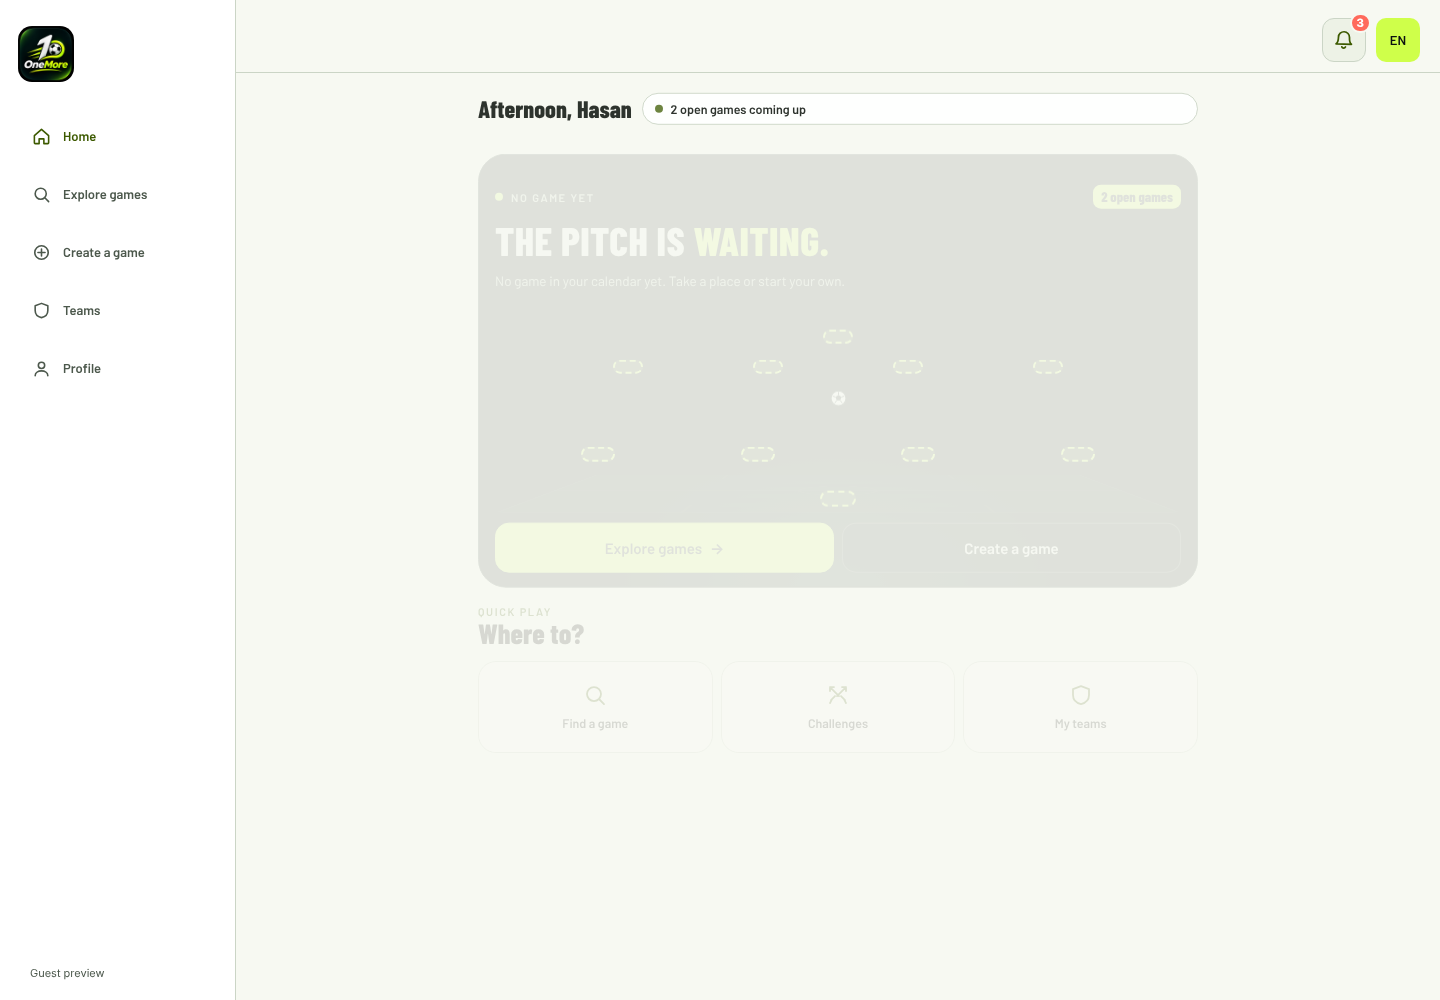
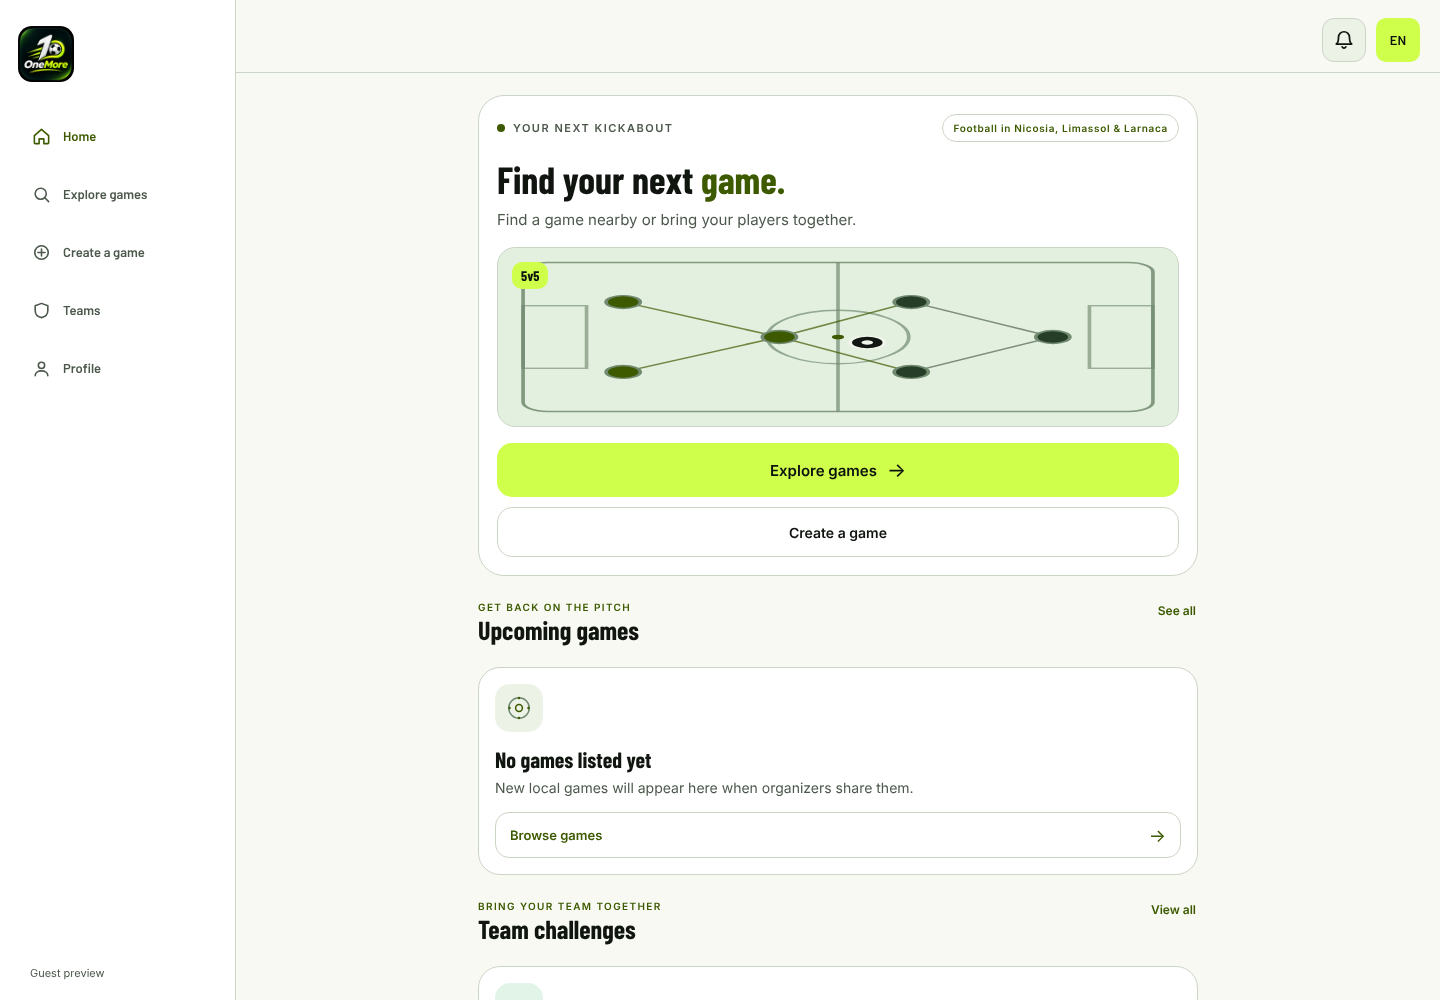
Fix delete-account redirect race, lazy legal page test, home test with mocked sign-in (regression pending)
Claude-Session: https://claude.ai/code/session_018Y2DJcCxNRruUAufNUxVdN

diff --git a/e2e/phase-17-home.spec.ts b/e2e/phase-17-home.spec.ts
@@ -3,12 +3,68 @@ import { join } from 'node:path';
 
 import { expect, test } from '@playwright/test';
 
-test('branded home screen fits mobile and desktop and localizes to Greek', async ({ page }, info) => {
+const userId = 'f3476a3f-21b6-4c93-9b01-b63de7a46031';
+const json = (body: unknown, headers: Record<string, string> = {}) => ({
+  status: 200,
+  contentType: 'application/json',
+  headers: { 'access-control-expose-headers': 'content-range', ...headers },
+  body: JSON.stringify(body),
+});
+
+test('branded home screen fits mobile and desktop and localizes to Greek', async ({
+  page,
+}, info) => {
   const mobile = info.project.name === 'mobile-chromium';
   const width = mobile ? 375 : 1440;
   const height = mobile ? 812 : 1000;
   const screenshots = join(process.cwd(), 'docs', 'screenshots', 'phase-17');
   mkdirSync(screenshots, { recursive: true });
+
+  // /home is a private page, so sign in with a mocked session.
+  await page.addInitScript(
+    ({ id }) => {
+      const now = Math.floor(Date.now() / 1000);
+      localStorage.setItem(
+        'sb-ejlyaerurkjgsylrsthl-auth-token',
+        JSON.stringify({
+          access_token: 'mock-access-token',
+          token_type: 'bearer',
+          expires_in: 86400,
+          expires_at: now + 86400,
+          refresh_token: 'mock-refresh-token',
+          user: {
+            id,
+            aud: 'authenticated',
+            role: 'authenticated',
+            email: 'player@example.invalid',
+            email_confirmed_at: '2026-01-01T00:00:00Z',
+            app_metadata: {},
+            user_metadata: {},
+            identities: [],
+            created_at: '2026-01-01T00:00:00Z',
+          },
+        }),
+      );
+      // Only defaults: the test switches theme and language itself and the script runs on every load.
+      if (!localStorage.getItem('one-more.theme')) localStorage.setItem('one-more.theme', 'light');
+      if (!localStorage.getItem('one-more.locale')) localStorage.setItem('one-more.locale', 'en');
+    },
+    { id: userId },
+  );
+  await page.route('**/rest/v1/profiles**', (route) =>
+    route.fulfill(json({ onboarding_complete: true })),
+  );
+  await page.route('**/rest/v1/inbox_notifications**', (route) =>
+    route.fulfill({
+      status: 200,
+      headers: {
+        'content-range': '*/0',
+        'access-control-allow-origin': '*',
+        'access-control-expose-headers': 'content-range',
+      },
+      body: route.request().method() === 'HEAD' ? '' : '[]',
+    }),
+  );
   await page.setViewportSize({ width, height });
   await page.goto('/home');
 
@@ -24,7 +80,9 @@ test('branded home screen fits mobile and desktop and localizes to Greek', async
   const challengesHeading = page.getByRole('heading', { name: 'Team challenges' });
   await challengesHeading.scrollIntoViewIfNeeded();
   await expect(challengesHeading).toBeVisible();
-  expect(await page.evaluate(() => document.documentElement.scrollWidth)).toBeLessThanOrEqual(width);
+  expect(await page.evaluate(() => document.documentElement.scrollWidth)).toBeLessThanOrEqual(
+    width,
+  );
   await page.evaluate(() => localStorage.setItem('one-more.theme', 'dark'));
   await page.reload();
   await expect(page.locator('html')).toHaveCSS('color-scheme', 'dark');
@@ -37,5 +95,5 @@ test('branded home screen fits mobile and desktop and localizes to Greek', async
   await expect(languageToggle).toBeEnabled();
   await languageToggle.click();
   await expect(page.getByRole('heading', { name: 'Βρες τον επόμενο αγώνα σου.' })).toBeVisible();
-  await expect(page.getByRole('link', { name: 'Αναζήτηση αγώνων' })).toBeVisible();
+  await expect(page.getByRole('link', { name: 'Ανακάλυψε αγώνες' }).first()).toBeVisible();
 });

diff --git a/src/app/(app)/settings.tsx b/src/app/(app)/settings.tsx
@@ -133,13 +133,14 @@ export default function SettingsScreen() {
     setDeletionBusy(true);
     try {
       await deleteMyAccount();
-      // The account no longer exists; end the local session and leave the private area.
+      // The account no longer exists. Leave the private area first, so ending the session cannot
+      // send the player to the sign-in page, then end the local session and forget cached data.
+      showToast(copy.settingsDeletionRequestSuccess, 'success');
+      router.replace('/');
       await getSupabaseClient()
         .auth.signOut({ scope: 'local' })
         .catch(() => undefined);
       await clearLocalUserData();
-      showToast(copy.settingsDeletionRequestSuccess, 'success');
-      router.replace('/');
     } catch {
       showToast(copy.settingsDeletionRequestError, 'error');
       setDeletionBusy(false);

diff --git a/e2e/store-compliance.spec.ts b/e2e/store-compliance.spec.ts
@@ -71,7 +71,10 @@ test.describe('public legal and support pages', () => {
       await expect(page).toHaveURL(new RegExp(`${path}$`));
       await expect(page.getByRole('heading', { name: heading, exact: true }).first()).toBeVisible();
       await expect(page.getByText(/placeholder|pending review|not ready/i)).toHaveCount(0);
-      expect((await page.locator('body').innerText()).length).toBeGreaterThan(900);
+      // The long text loads lazily, so wait for it instead of reading the page once.
+      await expect
+        .poll(async () => (await page.locator('body').innerText()).length)
+        .toBeGreaterThan(900);
     });
   }
 
